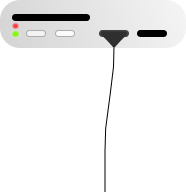
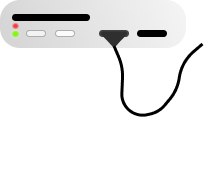
add controller to desk, change cord images

diff --git a/css/styles.css b/css/styles.css
@@ -397,10 +397,11 @@ body {
   transform: translate(50px, -108px);
 }
 .controller {
-  transform: translate(-590px, 160px);
+  width: 100px;
+  transform: translate(-680px, -108px);
   position: absolute;
 }
 .cord {
-  transform: translate(154px, -130px);
+  transform: translate(250px, -275px);
   position: absolute;
 }

diff --git a/readme.md b/readme.md
@@ -1,14 +1,4 @@
 # Portfolio - - - Ichor Studios
-find better font style and size for every page. <----- done
-find better colors for font. <----- done
-make contact me icons. <---- done
-put resume in about me. <-------- done
-change Epicodus in skills section to prototyping experience.  <----- done
-add links instead to projects < ----- done
-freepick.com ?
-put controller on desk
-change background to image
-
 
 ### By Jared Lutz
 
